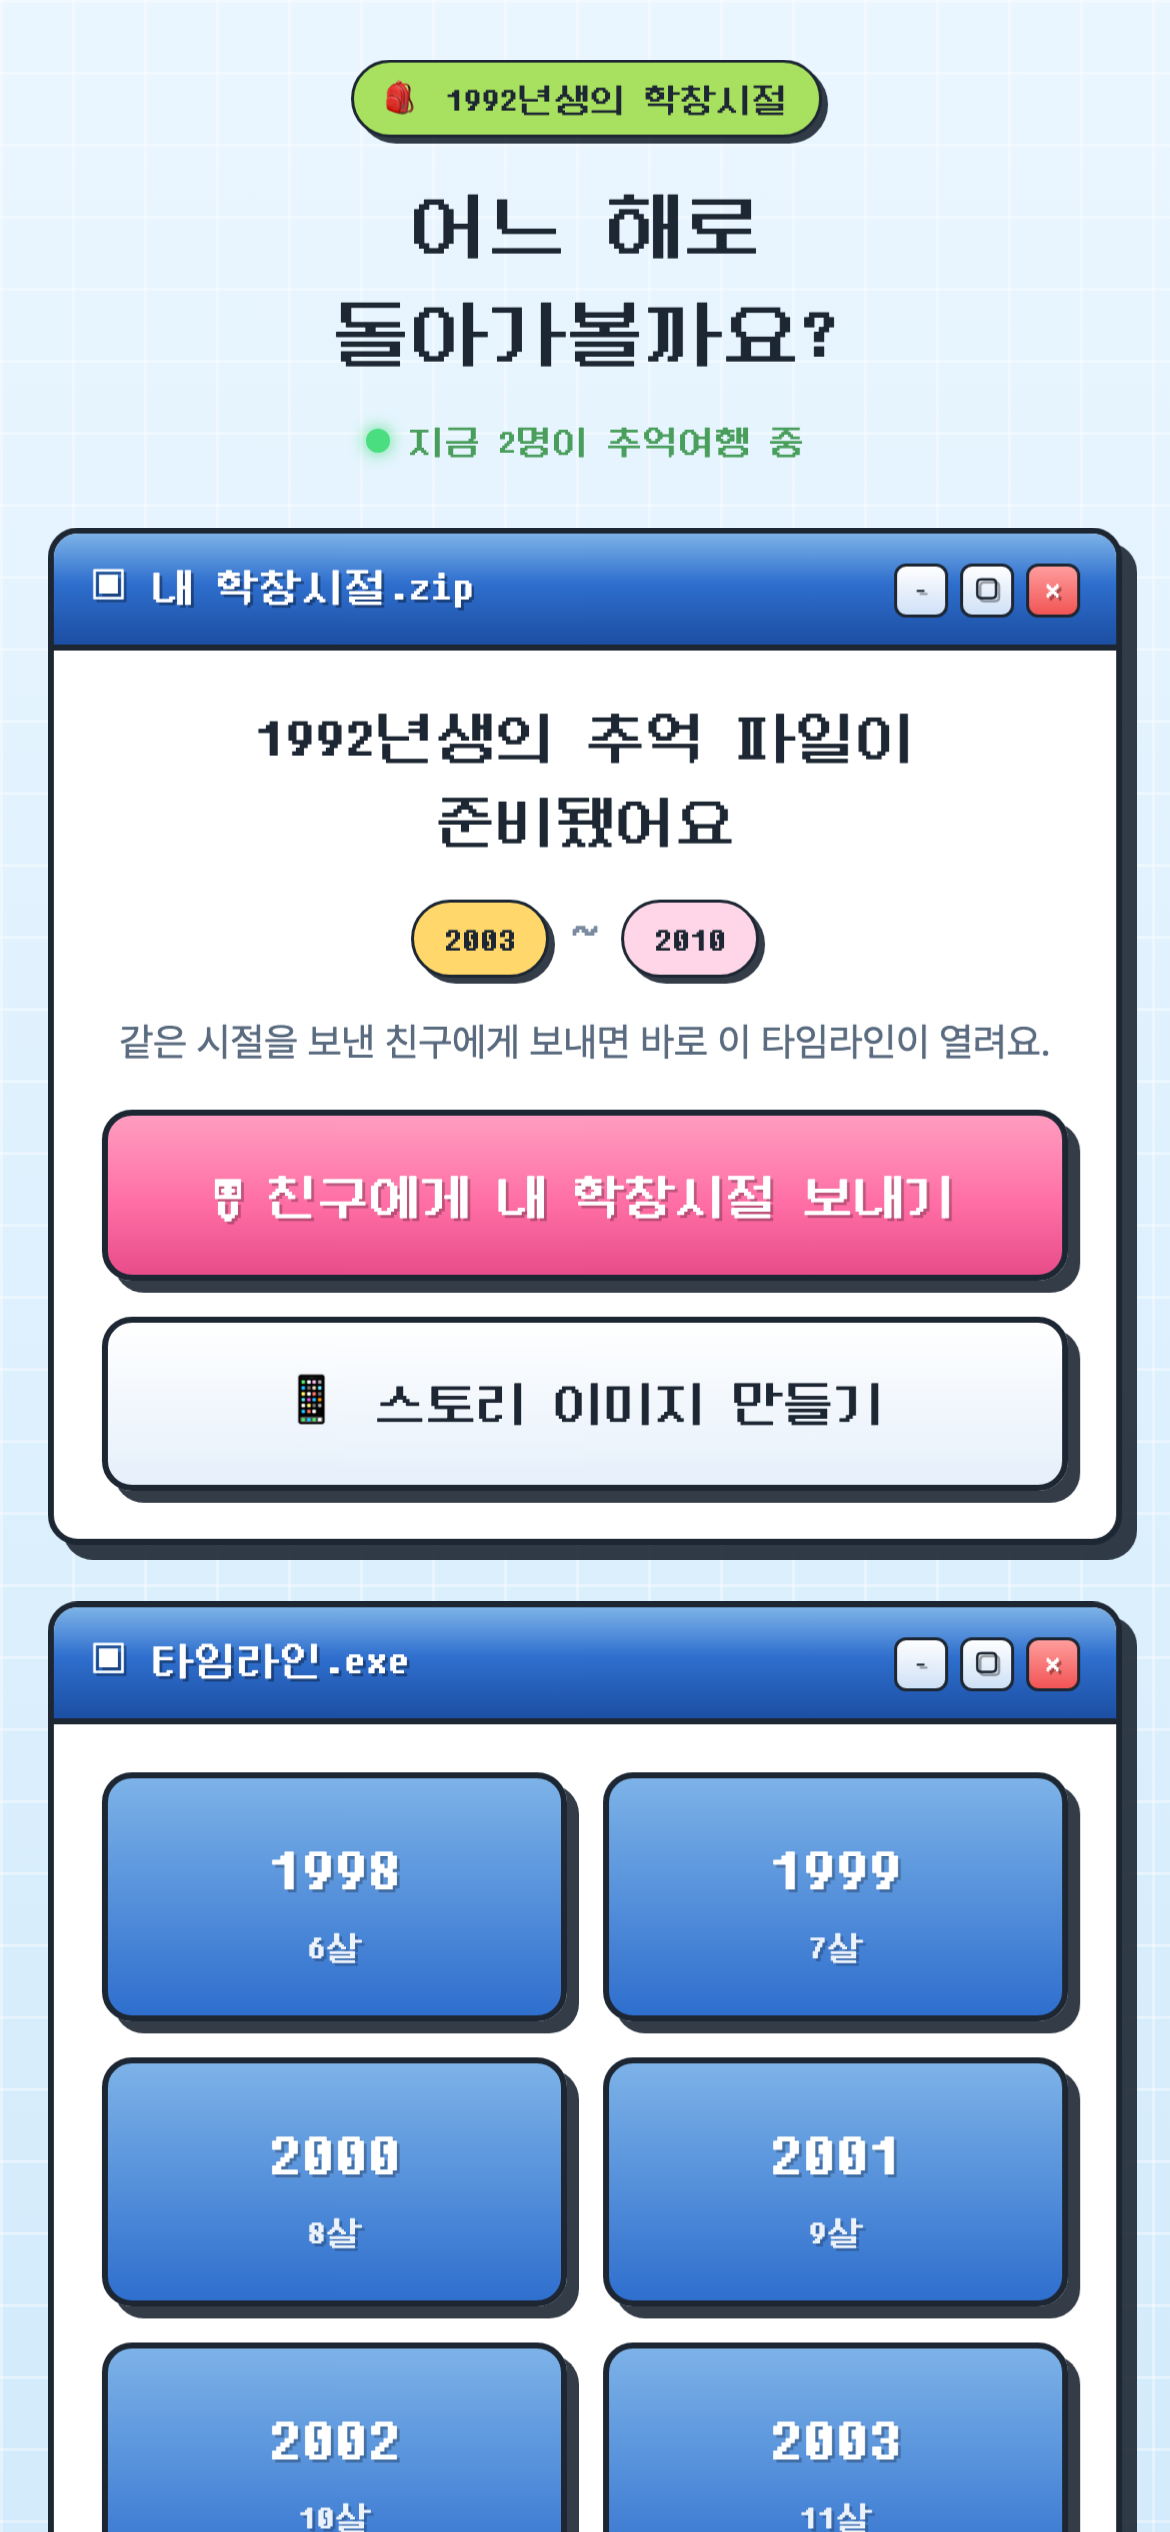
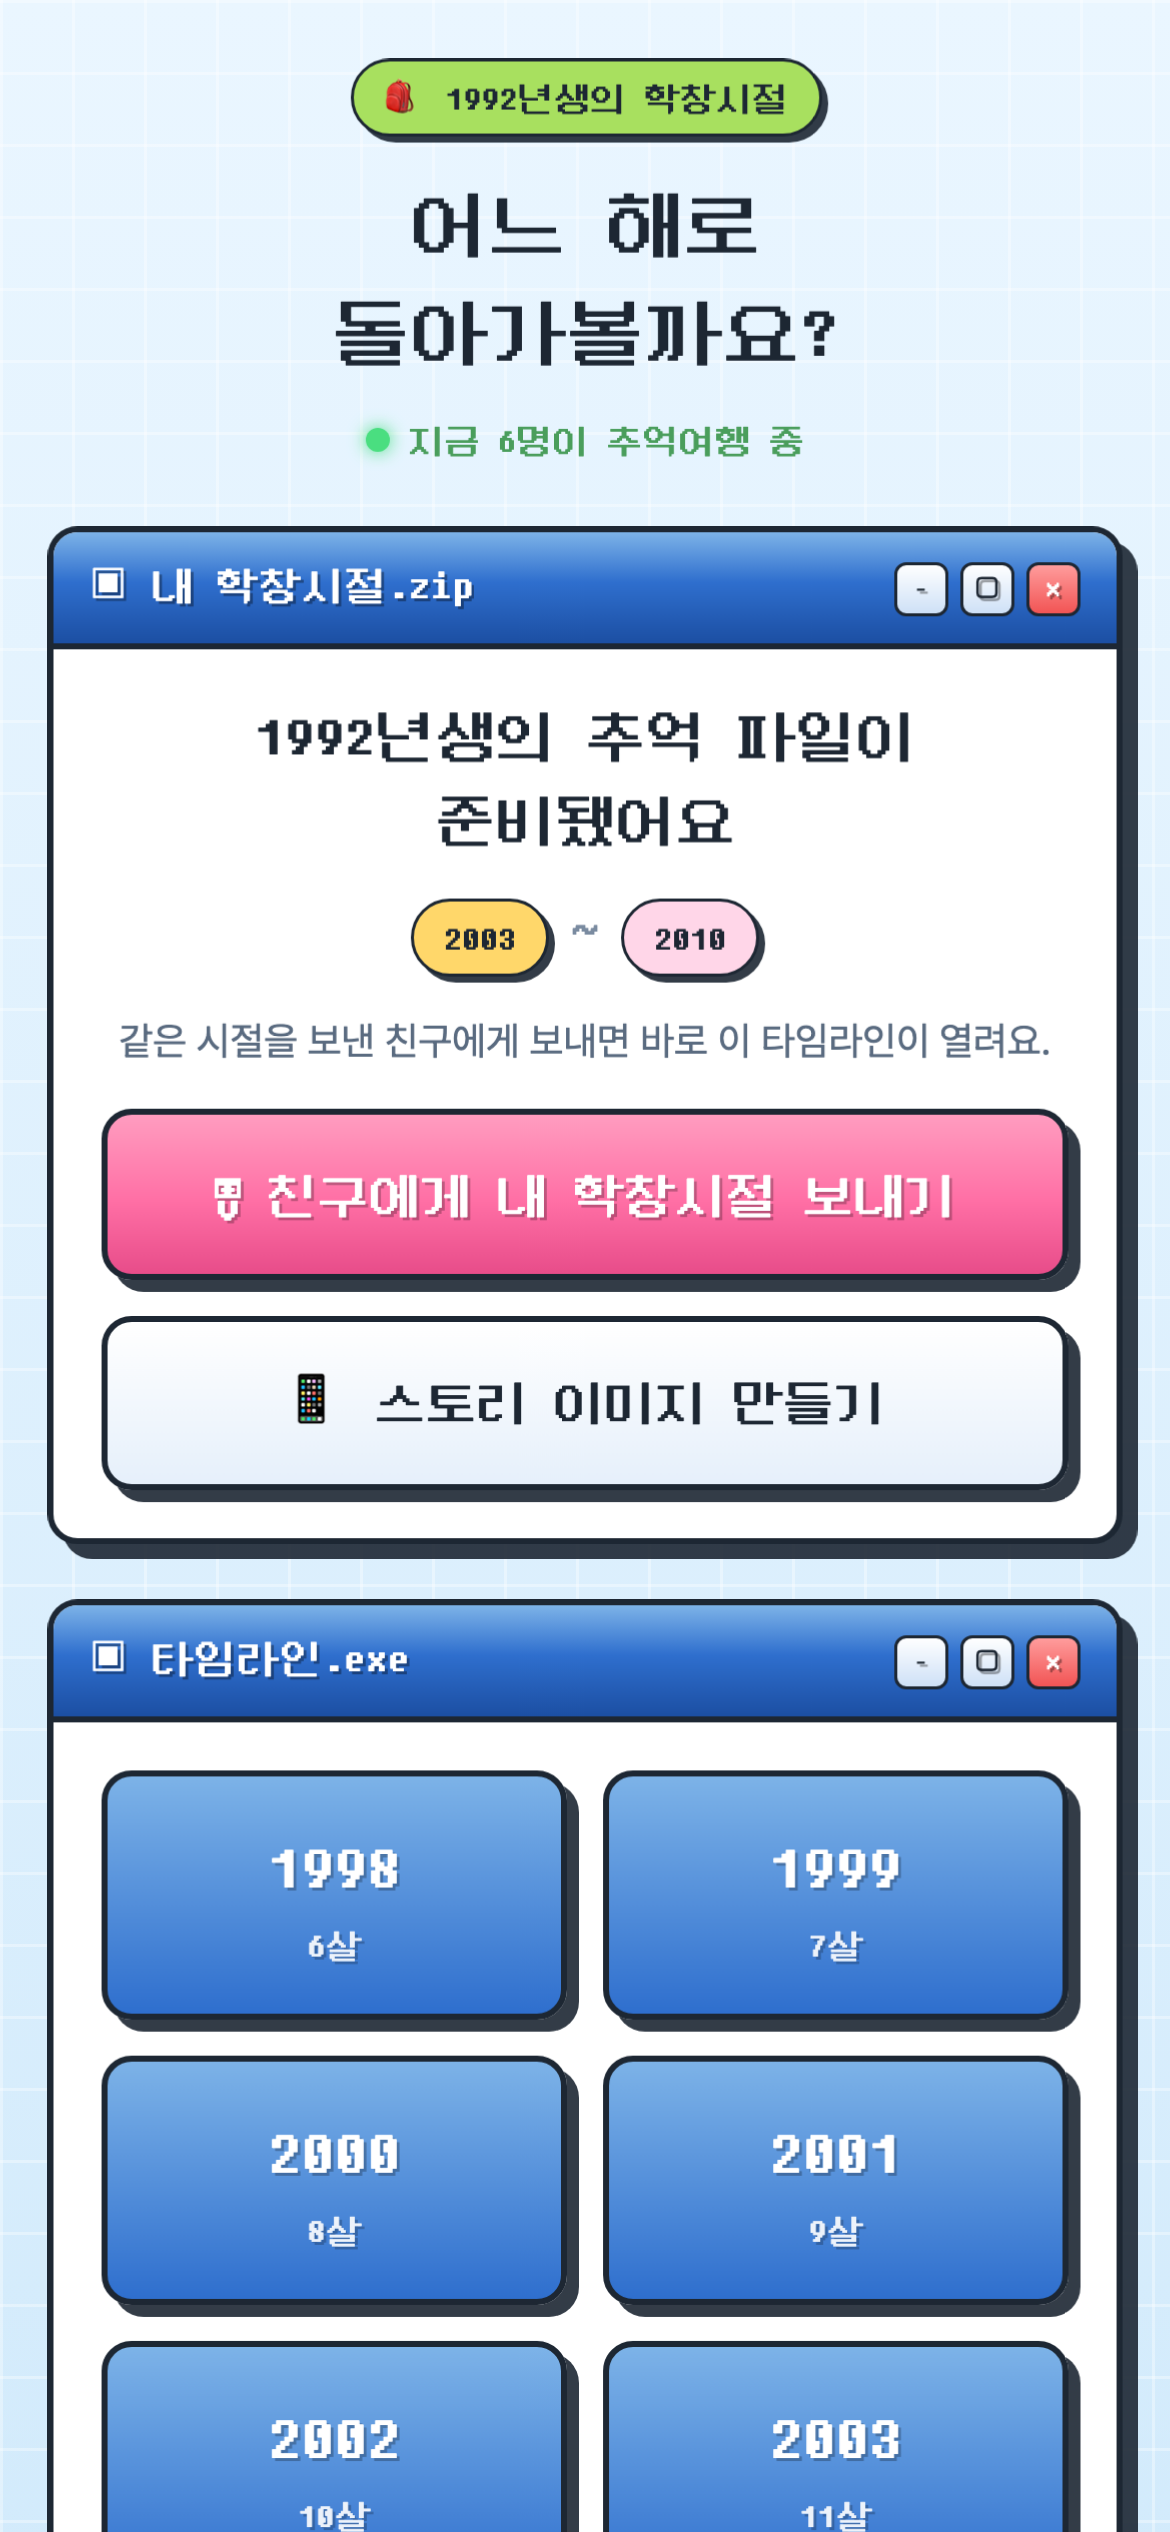
타임캡슐 완료 상태를 append-only로 안정화

diff --git a/app/capsule/result/CapsuleResultClient.tsx b/app/capsule/result/CapsuleResultClient.tsx
@@ -10,7 +10,11 @@ import {
   CAPSULE_QUESTIONS,
   LEGACY_CAPSULE_QUESTIONS,
 } from "@/data/capsuleQuestions";
-import type { CapsuleRecord, CapsuleResult } from "@/lib/capsule";
+import {
+  isCapsuleRecord,
+  type CapsuleRecord,
+  type CapsuleResult,
+} from "@/lib/capsule";
 import { decryptCapsule, getCapsuleKeyFromHash } from "@/lib/capsuleCrypto";
 import { fillLabel } from "@/lib/josa";
 import { trackEvent } from "@/lib/analytics";
@@ -40,32 +44,55 @@ export default function CapsuleResultClient({
   useEffect(() => {
     setResultUrl(window.location.href);
     if (legacyResult) return;
-    if (!record || record.kind !== "result" || !capsuleId) {
+    if (!record || !capsuleId) {
       setInvalid(true);
       return;
     }
+    const initialRecord = record;
     const key = getCapsuleKeyFromHash();
     if (!key) {
       setInvalid(true);
       return;
     }
 
+    const controller = new AbortController();
     let active = true;
-    void decryptCapsule(record.cipher, key).then((value) => {
-      if (!active) return;
-      if (
-        value?.kind === "result" &&
-        value.year === record.year &&
-        value.a.name === record.aName &&
-        value.b.name === record.bName
-      ) {
-        setResult(value);
-      } else {
-        setInvalid(true);
+
+    async function resolveResult() {
+      let candidate: CapsuleRecord = initialRecord;
+      for (let attempt = 0; attempt < 10 && active; attempt++) {
+        if (candidate.kind === "result") {
+          const value = await decryptCapsule(candidate.cipher, key);
+          if (
+            value?.kind === "result" &&
+            value.year === candidate.year &&
+            value.a.name === candidate.aName &&
+            value.b.name === candidate.bName
+          ) {
+            setResult(value);
+            return;
+          }
+        }
+
+        await new Promise((resolve) => window.setTimeout(resolve, 500));
+        try {
+          const response = await fetch(`/api/capsules/${capsuleId}`, {
+            cache: "no-store",
+            signal: controller.signal,
+          });
+          const latest: unknown = response.ok ? await response.json() : null;
+          if (isCapsuleRecord(latest)) candidate = latest;
+        } catch {
+          if (controller.signal.aborted) return;
+        }
       }
-    });
+      if (active) setInvalid(true);
+    }
+
+    void resolveResult();
     return () => {
       active = false;
+      controller.abort();
     };
   }, [capsuleId, legacyResult, record]);
 
@@ -82,7 +109,13 @@ export default function CapsuleResultClient({
     );
   }
 
-  if (!result) return null;
+  if (!result) {
+    return (
+      <main className="page flex flex-col justify-center gap-4 text-center">
+        <p className="font-pixel text-[20px]">📦 타임캡슐 여는 중...</p>
+      </main>
+    );
+  }
 
   const { year, a, b } = result;
   const info = getYearInfo(year);

diff --git a/app/api/capsules/[id]/route.ts b/app/api/capsules/[id]/route.ts
@@ -1,13 +1,31 @@
 import { NextRequest, NextResponse } from "next/server";
 import { createHash, timingSafeEqual } from "node:crypto";
-import { get, put } from "@vercel/blob";
+import { put } from "@vercel/blob";
 import { isCapsuleRecord, type CapsuleRecord } from "@/lib/capsule";
-import { CAPSULE_ID, capsulePath } from "@/lib/capsuleStore";
+import {
+  CAPSULE_ID,
+  capsuleResultPath,
+  getCapsuleRecord,
+} from "@/lib/capsuleStore";
 
 export const runtime = "nodejs";
 export const dynamic = "force-dynamic";
 
 type RouteContext = { params: Promise<{ id: string }> };
+
+export async function GET(_req: NextRequest, { params }: RouteContext) {
+  const { id } = await params;
+  if (!CAPSULE_ID.test(id)) {
+    return NextResponse.json({ error: "invalid id" }, { status: 400 });
+  }
+  const record = await getCapsuleRecord(id);
+  if (!record) {
+    return NextResponse.json({ error: "not found" }, { status: 404 });
+  }
+  return NextResponse.json(record, {
+    headers: { "Cache-Control": "no-store" },
+  });
+}
 
 export async function PATCH(req: NextRequest, { params }: RouteContext) {
   const { id } = await params;
@@ -30,15 +48,11 @@ export async function PATCH(req: NextRequest, { params }: RouteContext) {
     return NextResponse.json({ error: "invalid proof" }, { status: 403 });
   }
 
-  const currentBlob = await get(capsulePath(id), {
-    access: "public",
-    useCache: false,
-  });
-  if (!currentBlob || currentBlob.statusCode !== 200) {
+  const currentValue = await getCapsuleRecord(id);
+  if (!currentValue) {
     return NextResponse.json({ error: "not found" }, { status: 404 });
   }
-  const currentValue: unknown = await new Response(currentBlob.stream).json();
-  if (!isCapsuleRecord(currentValue) || currentValue.kind !== "invite") {
+  if (currentValue.kind !== "invite") {
     return NextResponse.json({ error: "already completed" }, { status: 409 });
   }
 
@@ -63,12 +77,15 @@ export async function PATCH(req: NextRequest, { params }: RouteContext) {
     return NextResponse.json({ error: "capsule mismatch" }, { status: 400 });
   }
 
-  await put(capsulePath(id), JSON.stringify(next), {
-    access: "public",
-    contentType: "application/json",
-    addRandomSuffix: false,
-    ifMatch: currentBlob.blob.etag,
-  });
+  try {
+    await put(capsuleResultPath(id), JSON.stringify(next), {
+      access: "public",
+      contentType: "application/json",
+      addRandomSuffix: false,
+    });
+  } catch {
+    return NextResponse.json({ error: "already completed" }, { status: 409 });
+  }
 
   return NextResponse.json({ id });
 }

diff --git a/lib/capsuleStore.ts b/lib/capsuleStore.ts
@@ -1,6 +1,6 @@
 import "server-only";
 
-import { get } from "@vercel/blob";
+import { list } from "@vercel/blob";
 import { isCapsuleRecord, type CapsuleRecord } from "@/lib/capsule";
 
 export const CAPSULE_ID = /^[A-Za-z0-9_-]{12}$/;
@@ -9,18 +9,59 @@ export function capsulePath(id: string): string {
   return `capsules/${id}.json`;
 }
 
+export function capsulePrefix(id: string): string {
+  return `capsules-v2/${id}/`;
+}
+
+export function capsuleInvitePath(id: string): string {
+  return `${capsulePrefix(id)}invite.json`;
+}
+
+export function capsuleResultPath(id: string): string {
+  return `${capsulePrefix(id)}result.json`;
+}
+
+async function readRecordAt(pathname: string): Promise<CapsuleRecord | null> {
+  const { blobs } = await list({ prefix: pathname, limit: 5 });
+  const blob = blobs.find((item) => item.pathname === pathname);
+  if (!blob) return null;
+  const separator = blob.url.includes("?") ? "&" : "?";
+  const response = await fetch(
+    `${blob.url}${separator}v=${blob.uploadedAt.getTime()}`,
+    { cache: "no-store" },
+  );
+  if (!response.ok) return null;
+  const value: unknown = await response.json();
+  return isCapsuleRecord(value) ? value : null;
+}
+
 export async function getCapsuleRecord(
   id: string,
 ): Promise<CapsuleRecord | null> {
   if (!CAPSULE_ID.test(id)) return null;
   try {
-    const blob = await get(capsulePath(id), {
-      access: "public",
-      useCache: false,
-    });
-    if (!blob || blob.statusCode !== 200) return null;
-    const value: unknown = await new Response(blob.stream).json();
-    return isCapsuleRecord(value) ? value : null;
+    const { blobs } = await list({ prefix: capsulePrefix(id), limit: 10 });
+    const resultBlob = blobs.find(
+      (item) => item.pathname === capsuleResultPath(id),
+    );
+    const inviteBlob = blobs.find(
+      (item) => item.pathname === capsuleInvitePath(id),
+    );
+    const currentBlob = resultBlob ?? inviteBlob;
+    if (currentBlob) {
+      const separator = currentBlob.url.includes("?") ? "&" : "?";
+      const response = await fetch(
+        `${currentBlob.url}${separator}v=${currentBlob.uploadedAt.getTime()}`,
+        { cache: "no-store" },
+      );
+      if (response.ok) {
+        const value: unknown = await response.json();
+        if (isCapsuleRecord(value)) return value;
+      }
+    }
+
+    // 첫 짧은 링크 배포에서 생성된 capsules/<id>.json도 계속 지원한다.
+    return readRecordAt(capsulePath(id));
   } catch {
     return null;
   }

diff --git a/app/capsule/CapsuleInviteClient.tsx b/app/capsule/CapsuleInviteClient.tsx
@@ -11,6 +11,7 @@ import {
 } from "@/data/capsuleQuestions";
 import {
   encodeCapsule,
+  isCapsuleRecord,
   type CapsuleInvite,
   type CapsuleRecord,
   type CapsuleResult,
@@ -59,25 +60,35 @@ export default function CapsuleInviteClient({
       return;
     }
     setCapsuleKey(key);
-    if (record.kind === "result") {
-      router.replace(`/capsule/result?c=${capsuleId}#k=${encodeURIComponent(key)}`);
-      return;
-    }
-
     let active = true;
-    void decryptCapsule(record.cipher, key).then((value) => {
+    void (async () => {
+      let latest = record;
+      try {
+        const response = await fetch(`/api/capsules/${capsuleId}`, {
+          cache: "no-store",
+        });
+        const value: unknown = response.ok ? await response.json() : null;
+        if (isCapsuleRecord(value)) latest = value;
+      } catch {}
+      if (!active) return;
+      if (latest.kind === "result") {
+        router.replace(`/capsule/result?c=${capsuleId}#k=${encodeURIComponent(key)}`);
+        return;
+      }
+
+      const value = await decryptCapsule(latest.cipher, key);
       if (!active) return;
       if (
         value?.kind === "invite" &&
-        value.year === record.year &&
-        value.from === record.fromName
+        value.year === latest.year &&
+        value.from === latest.fromName
       ) {
         setInvite(value);
         trackEvent("invite_open", { year: value.year, version: "short" });
       } else {
         setInvalid(true);
       }
-    });
+    })();
     return () => {
       active = false;
     };
@@ -98,7 +109,13 @@ export default function CapsuleInviteClient({
     );
   }
 
-  if (!invite) return null;
+  if (!invite) {
+    return (
+      <main className="page flex flex-col justify-center gap-4 text-center">
+        <p className="font-pixel text-[20px]">💌 타임캡슐 불러오는 중...</p>
+      </main>
+    );
+  }
 
   async function handleSubmit(name: string, answers: string[]) {
     if (!invite) return;

diff --git a/app/api/capsules/route.ts b/app/api/capsules/route.ts
@@ -3,7 +3,7 @@ import { NextRequest, NextResponse } from "next/server";
 import { put } from "@vercel/blob";
 import { AVAILABLE_YEARS } from "@/data/memories";
 import { isCapsuleRecord, type CapsuleRecord } from "@/lib/capsule";
-import { capsulePath } from "@/lib/capsuleStore";
+import { capsuleInvitePath } from "@/lib/capsuleStore";
 
 export const runtime = "nodejs";
 export const dynamic = "force-dynamic";
@@ -26,11 +26,15 @@ export async function POST(req: NextRequest) {
 
   const id = randomBytes(9).toString("base64url");
   const record: CapsuleRecord = { ...value, createdAt: Date.now() };
-  await put(capsulePath(id), JSON.stringify(record), {
-    access: "public",
-    contentType: "application/json",
-    addRandomSuffix: false,
-  });
+  try {
+    await put(capsuleInvitePath(id), JSON.stringify(record), {
+      access: "public",
+      contentType: "application/json",
+      addRandomSuffix: false,
+    });
+  } catch {
+    return NextResponse.json({ error: "storage unavailable" }, { status: 503 });
+  }
 
   return NextResponse.json({ id });
 }

diff --git a/app/api/story/route.tsx b/app/api/story/route.tsx
@@ -24,7 +24,11 @@ export async function GET(req: NextRequest) {
   }
 
   const id = query.get("c") ?? "";
-  const record = id ? await getCapsuleRecord(id) : null;
+  let record = id ? await getCapsuleRecord(id) : null;
+  for (let attempt = 0; id && record?.kind === "invite" && attempt < 8; attempt++) {
+    await new Promise((resolve) => setTimeout(resolve, 400));
+    record = await getCapsuleRecord(id);
+  }
   if (record?.kind === "result") {
     return renderStoryImage({
       badge: `${record.year}년 타임캡슐`,
